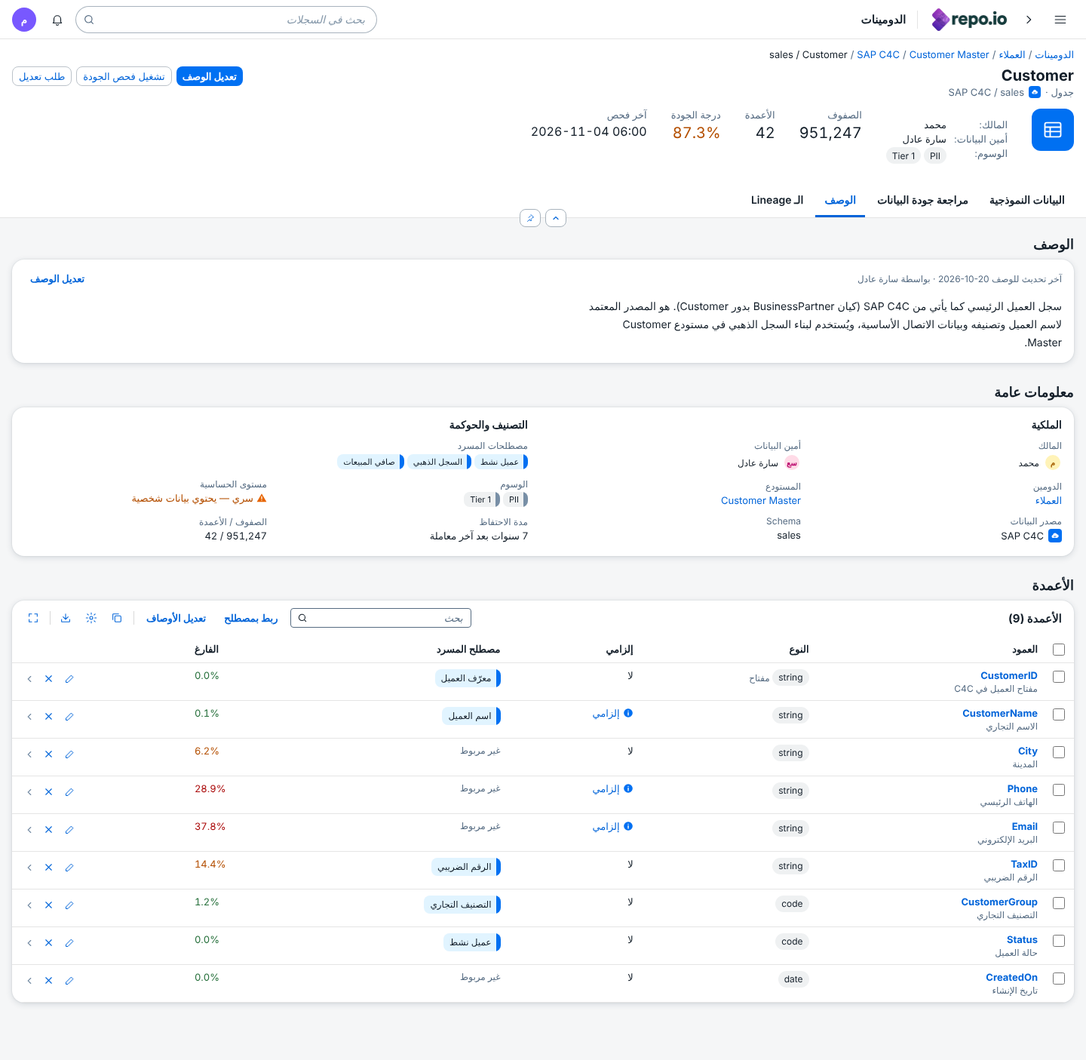
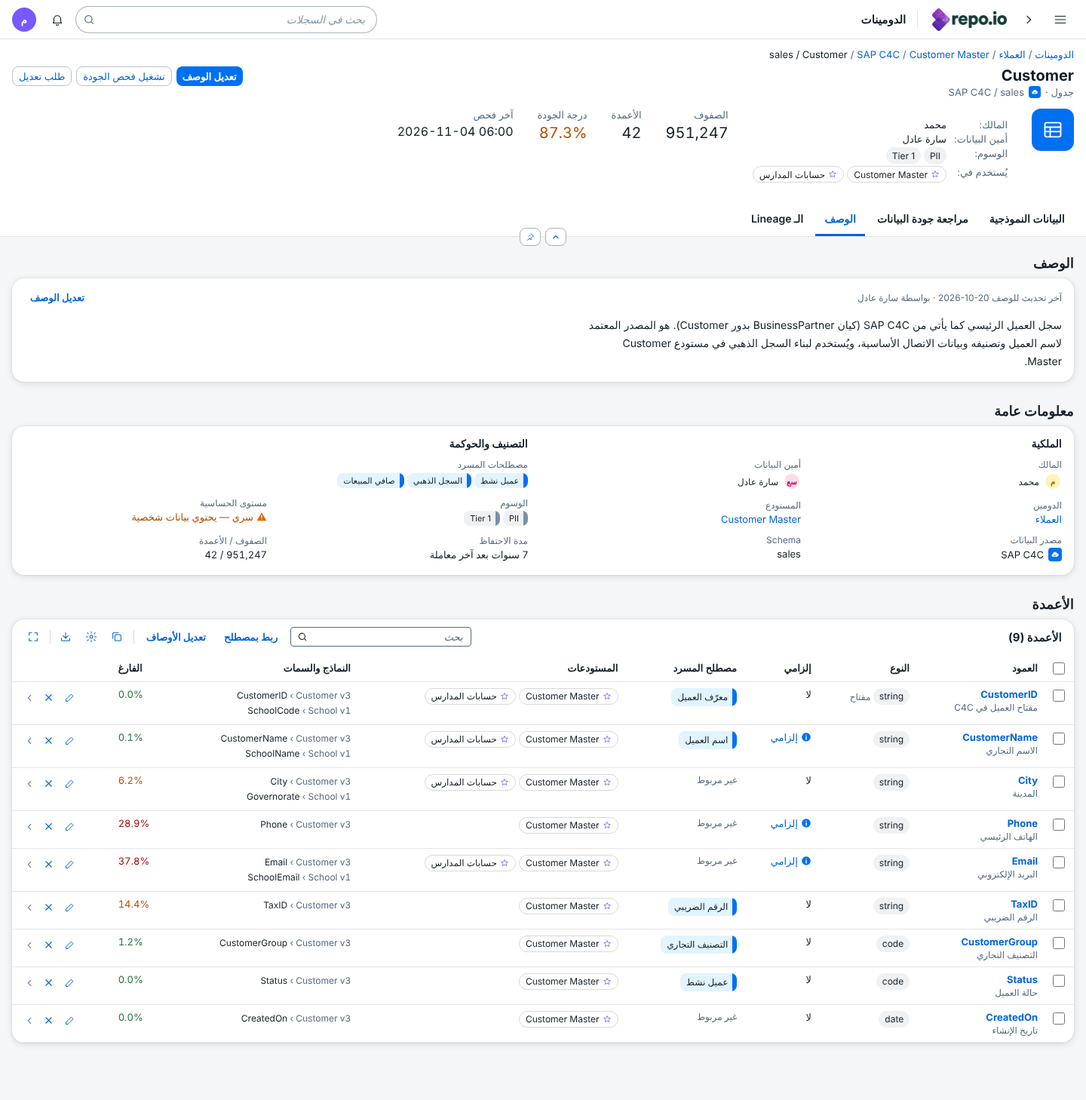
design: show repository and model participation for sources, tables, and fields
Data source page gets a participating-repositories section and a 'used in'
column per table; table page lists the repositories that use it, and each
field shows the repositories and model attributes it maps to.

Claude-Session: https://claude.ai/code/session_014MwTwj4qVcnTAy3XtzTwBt

diff --git a/repoio-ui/design-reference/prototypes/02-domains.html b/repoio-ui/design-reference/prototypes/02-domains.html
@@ -306,6 +306,9 @@ table.rt tbody tr.sel td:first-child{box-shadow:inset -4px 0 0 var(--brand-stron
 .anchors{display:flex;gap:2px;overflow-x:auto;margin-top:-6px}
 .anchors .tab{height:40px;font-size:13px}
 .op-sec{margin-bottom:28px;scroll-margin-top:68px}
+.lnk{border:0;background:none;padding:0;font:inherit;color:var(--link,#0064D9);cursor:pointer}.lnk:hover{text-decoration:underline}
+.rchips{display:inline-flex;flex-wrap:wrap;gap:4px}.rchip{display:inline-flex;align-items:center;gap:4px;height:22px;padding:0 8px;border:1px solid #D9D9D9;border-radius:11px;background:#fff;font:inherit;font-size:12px;color:#131E29;cursor:pointer;white-space:nowrap}.rchip svg{color:#7858FF}.rchip:hover{background:#EAECEE}.rchip:focus-visible{outline:2px solid #0032A5;outline-offset:1px}
+.mattr{display:block;font-size:12px;line-height:20px;white-space:nowrap}.mattr .m{color:#556B82}
 .op-sec>h2{font-size:18px;font-weight:700;margin:0 0 10px}
 .gi2{display:grid;grid-template-columns:repeat(2,minmax(0,1fr));gap:12px 40px;padding:14px 16px 18px}
 .gi2 .grp{display:grid;grid-template-columns:repeat(2,minmax(0,1fr));gap:12px 24px;align-content:start}
@@ -452,7 +455,7 @@ const D = {
   repos: {
     'customer-master':{owners:['محمد','سارة عادل','أحمد ناصر'],tags:['PII','Tier 1','C4C'],code:'CUSTOMER_MASTER',deployed:'2026-10-02 10:19',cap:1500000,storage:[42.6,100],pipes:4,name:'Customer Master',flow:['pos','pos','crit','pos'],status:'Deployed',model:'Customer v3',golden:951247,quality:87.3,sources:['c4c','s4','csv']},
     'distribution':{owners:['هالة سمير'],tags:['Tier 2','شركاء'],code:'DISTRIBUTION_PARTNERS',deployed:'2026-09-21 10:23',cap:5000,storage:[1.2,10],pipes:1,name:'شركاء التوزيع',flow:['pos','pos','pos','pos'],status:'Deployed',model:'Partner v1',golden:1840,quality:91.2,sources:['s4']},
-    'schools':{owners:['سارة عادل','منى حسن'],tags:['مسودة','تعليم'],code:'SCHOOL_ACCOUNTS',deployed:'—',cap:20000,storage:[0.3,10],pipes:1,name:'حسابات المدارس',flow:['pos','crit','neutral','neutral'],status:'Draft',model:'School v1',golden:0,quality:72.5,sources:['csv']},
+    'schools':{owners:['سارة عادل','منى حسن'],tags:['مسودة','تعليم'],code:'SCHOOL_ACCOUNTS',deployed:'—',cap:20000,storage:[0.3,10],pipes:1,name:'حسابات المدارس',flow:['pos','crit','neutral','neutral'],status:'Draft',model:'School v1',golden:0,quality:72.5,sources:['csv','c4c']},
     'catalog':{owners:['كريم فوزي','نور الدين'],tags:['Tier 1','ISBN'],code:'BOOK_CATALOG',deployed:'2026-08-11 10:14',cap:100000,storage:[6.8,50],pipes:2,name:'كتالوج الكتب',flow:['pos','pos','pos','pos'],status:'Deployed',model:'Book v2',golden:38500,quality:96.2,sources:['s4','csv']},
     'digital':{owners:['كريم فوزي'],tags:['رقمي'],code:'DIGITAL_PRODUCTS',deployed:'—',cap:20000,storage:[0.1,10],pipes:1,name:'المنتجات الرقمية',flow:['pos','neutral','neutral','neutral'],status:'Draft',model:'Digital v1',golden:0,quality:68.0,sources:['csv']},
     'vendor-master':{owners:['هالة سمير','عمر طارق'],tags:['Tier 1','مشتريات'],code:'VENDOR_MASTER',deployed:'2026-07-30 10:16',cap:2000,storage:[0.9,10],pipes:1,name:'Vendor Master',flow:['pos','pos','pos','crit'],status:'Deployed',model:'Vendor v2',golden:612,quality:89.4,sources:['s4']},
@@ -468,9 +471,9 @@ const D = {
         {id:'territory',name:'Territory',rows:212,cols:11,q:94.8,prof:'2026-11-04 06:00'}]}},
     s4:{auth:'Basic (RFC user)',sched:'يومياً 01:30',owner:'كريم فوزي',name:'SAP S/4HANA',type:'SAP S/4HANA (CDS views)',host:'s4prd.nahdetmisr.local',sync:'2026-11-04 01:30',state:'crit',stateL:'مزامنة جزئية',schemas:{
       'sd':[{id:'kna1',name:'KNA1 — Customer General',rows:948120,cols:86,q:83.9,prof:'2026-11-04 05:00'},{id:'knvv',name:'KNVV — Sales Data',rows:1102340,cols:64,q:88.2,prof:'2026-11-04 05:00'}],
-      'mm':[{id:'mara',name:'MARA — Material',rows:41230,cols:120,q:92.7,prof:'2026-11-04 05:00'}]}},
+      'mm':[{id:'mara',name:'MARA — Material',rows:41230,cols:120,q:92.7,prof:'2026-11-04 05:00'},{id:'lfa1',name:'LFA1 — Vendor Master',rows:2140,cols:72,q:89.1,prof:'2026-11-04 05:00'}]}},
     csv:{auth:'—',sched:'يدوي',owner:'سارة عادل',name:'رفع ملفات CSV',type:'Excel / CSV upload',host:'—',sync:'2026-11-02 14:12',state:'neutral',stateL:'يدوي',schemas:{
-      'uploads':[{id:'school_list',name:'school_list_2026.csv',rows:3820,cols:14,q:72.5,prof:'2026-11-02 14:15'}]}}},
+      'uploads':[{id:'school_list',name:'school_list_2026.csv',rows:3820,cols:14,q:72.5,prof:'2026-11-02 14:15'},{id:'new_customers',name:'new_customers_q3.csv',rows:1260,cols:12,q:76.8,prof:'2026-10-15 11:02'},{id:'book_list',name:'book_list_2026.csv',rows:6420,cols:18,q:90.3,prof:'2026-10-30 09:40'},{id:'digital_skus',name:'digital_skus.csv',rows:410,cols:9,q:68.0,prof:'2026-10-12 16:20'},{id:'authors_csv',name:'authors_archive.csv',rows:4210,cols:11,q:81.0,prof:'2025-12-01 10:21'}]}}},
   models:{
     'Customer v3':{entity:'Customer',ver:'3.2',status:'pos',statusL:'معتمد',approved:'2026-09-28',approver:'محمد',owner:'محمد',
       match:'Splink — احتمال ≥ 0.90 دمج تلقائي، 0.75–0.90 مراجعة يدوية',block:'المدينة + أول 3 أحرف من الاسم',surv:'الأحدث من المصدر الأعلى أولوية',
@@ -480,8 +483,8 @@ const D = {
         ['CustomerGroup','code',0,'—','c4c,s4','أولوية المصدر'],['Status','code',1,'—','c4c','أولوية المصدر'],['CreatedOn','date',0,'—','c4c,s4','الأقدم']]},
     'Partner v1':{entity:'Partner',ver:'1.4',status:'pos',statusL:'معتمد',approved:'2026-09-15',approver:'هالة سمير',owner:'هالة سمير',match:'مطابقة تامة على الرقم الضريبي',block:'الرقم الضريبي',surv:'أولوية المصدر',priority:['s4'],
       attrs:[['PartnerID','string',1,'مفتاح','s4','—'],['PartnerName','string',1,'مطابقة تقريبية','s4','أولوية المصدر'],['TaxID','string',1,'مطابقة تامة','s4','—'],['Region','code',0,'—','s4','أولوية المصدر']]},
-    'School v1':{entity:'School',ver:'0.9',status:'info',statusL:'مسودة',approved:'—',approver:'—',owner:'سارة عادل',match:'لم تُحدد بعد',block:'—',surv:'—',priority:['csv'],
-      attrs:[['SchoolCode','string',1,'مفتاح','csv','—'],['SchoolName','string',1,'مطابقة تقريبية','csv','—'],['Governorate','code',1,'Blocking','csv','—']]},
+    'School v1':{entity:'School',ver:'0.9',status:'info',statusL:'مسودة',approved:'—',approver:'—',owner:'سارة عادل',match:'لم تُحدد بعد',block:'—',surv:'—',priority:['csv','c4c'],
+      attrs:[['SchoolCode','string',1,'مفتاح','csv,c4c','—'],['SchoolName','string',1,'مطابقة تقريبية','csv,c4c','—'],['Governorate','code',1,'Blocking','csv,c4c','—'],['SchoolEmail','string',0,'—','c4c','—']]},
     'Book v2':{entity:'Book',ver:'2.1',status:'pos',statusL:'معتمد',approved:'2026-08-01',approver:'كريم فوزي',owner:'كريم فوزي',match:'مطابقة تامة على ISBN، ثم تقريبية على العنوان',block:'ISBN',surv:'أولوية المصدر',priority:['s4','csv'],
       attrs:[['ISBN','string',1,'مطابقة تامة','s4,csv','—'],['Title','string',1,'مطابقة تقريبية','s4,csv','الأعلى جودة'],['Author','string',1,'مطابقة تقريبية','csv','الأحدث'],['Grade','code',0,'—','s4','أولوية المصدر'],['Price','decimal',0,'—','s4','الأحدث']]},
     'Digital v1':{entity:'DigitalProduct',ver:'0.3',status:'info',statusL:'مسودة',approved:'—',approver:'—',owner:'كريم فوزي',match:'لم تُحدد بعد',block:'—',surv:'—',priority:['csv'],
@@ -490,6 +493,14 @@ const D = {
       attrs:[['VendorID','string',1,'مفتاح','s4','—'],['VendorName','string',1,'مطابقة تقريبية','s4','أولوية المصدر'],['TaxID','string',1,'مطابقة تامة','s4','—'],['BankCountry','code',0,'—','s4','أولوية المصدر']]},
     'Author v1':{entity:'Author',ver:'1.0',status:'neutral',statusL:'مؤرشف',approved:'2025-11-20',approver:'سارة عادل',owner:'سارة عادل',match:'مطابقة تقريبية على الاسم',block:'أول حرفين',surv:'الأحدث',priority:['csv'],
       attrs:[['AuthorID','string',1,'مفتاح','csv','—'],['AuthorName','string',1,'مطابقة تقريبية','csv','الأحدث'],['Nationality','code',0,'—','csv','الأحدث']]}},
+  /* which source tables each repository uses: repo → {source: [table ids]} */
+  usage:{'customer-master':{c4c:['customer','customer_address','contact_person','sales_area'],s4:['kna1','knvv'],csv:['new_customers']},
+    'distribution':{s4:['kna1','knvv']},'schools':{csv:['school_list'],c4c:['customer','customer_address']},
+    'catalog':{s4:['mara'],csv:['book_list']},'digital':{csv:['digital_skus']},'vendor-master':{s4:['lfa1']},'authors':{csv:['authors_csv']}},
+  /* field → [repo, model attribute] for C4C sales.Customer */
+  fieldMap:{CustomerID:[['customer-master','CustomerID'],['schools','SchoolCode']],CustomerName:[['customer-master','CustomerName'],['schools','SchoolName']],
+    TaxID:[['customer-master','TaxID']],Email:[['customer-master','Email'],['schools','SchoolEmail']],Phone:[['customer-master','Phone']],
+    City:[['customer-master','City'],['schools','Governorate']],CustomerGroup:[['customer-master','CustomerGroup']],Status:[['customer-master','Status']],CreatedOn:[['customer-master','CreatedOn']]},
   /* golden records the repository contributes to: [id, name, sub, sources, sourceRecords, matchProb, quality, lastMerge, state] */
   golden:{
     'customer-master':[['GR-C-000184','مكتبة الشروق','القاهرة · مكتبات',['c4c','s4','csv'],4,0.98,96.4,'2026-11-04 02:06','pos'],
@@ -740,6 +751,11 @@ function viewDomain(id){
 
 /* ───────────── Level 2: Repository (Object Page · anchor bar: Model / Golden records / Data sources) ───────────── */
 let repoTab='rp-model', gq='', gFilter='all';
+function reposOfSource(sid){return Object.keys(D.repos).filter(r=>D.repos[r].sources.includes(sid));}
+function reposOfTable(sid,tid){return Object.keys(D.repos).filter(r=>(D.usage[r]?.[sid]||[]).includes(tid));}
+function domOfRepo(r){return D.domains.find(d=>d.repos.includes(r));}
+const repoLink=r=>`<button class="lnk" data-go="xrepo:${r}">${esc(D.repos[r].name)}</button>`;
+const repoChips=list=>list.length?`<span class="rchips">${list.map(r=>`<button class="rchip" data-go="xrepo:${r}" title="${esc(D.repos[r].model)}">${svg('gold',12)}${esc(D.repos[r].name)}</button>`).join('')}</span>`:'<span class="sub">غير مستخدم</span>';
 const GST={pos:'معتمد',crit:'قيد المراجعة',neg:'تعارض',neutral:'مؤرشف'};
 function viewRepo(id){
   const R=D.repos[id], M=D.models[R.model], G=(D.golden[id]||[]), [hs,hl]=repoHealth(R), qs=qState(R.quality);
@@ -819,12 +835,13 @@ function viewSources(id){
   const S=D.sources[sid],k=srcStats(S),qs=qState(k.q);
   const tbls=Object.entries(S.schemas).flatMap(([g,list])=>list.map(t=>({...t,schema:g}))).filter(t=>!srcQ||t.name.toLowerCase().includes(srcQ.toLowerCase())||t.schema.includes(srcQ));
   const allSel=tbls.length&&tbls.every(t=>selTables.has(t.id));
-  const anchors=[['sec-general','معلومات عامة'],['sec-tables','Schemas و Tables'],['sec-sync','سجل المزامنة']];
+  const anchors=[['sec-general','معلومات عامة'],['sec-repos','المستودعات المشاركة'],['sec-tables','Schemas و Tables'],['sec-sync','سجل المزامنة']];
+  const srcRepos=reposOfSource(sid);
   return tabs+`<section class="ph ${headerCollapsed?'collapsed':''}"><div class="ph-in">${crumbs()}
     <div class="oh-top"><div><h1 class="oh-title" tabindex="-1">${esc(S.name)}</h1></div>
       <div class="oh-actions"><button class="b b-emph">تعديل</button><button class="b b-std">حذف</button><button class="b b-std">مزامنة الآن</button><button class="rt-ic" aria-label="مشاركة">${SHARE_IC}</button></div></div>
     <div class="oh-body">${srcIcon(sid,56)}
-      <dl class="oh-attrs"><dt>الموصّل:</dt><dd>${esc(S.type)} <span class="chip">${SRC_IC[sid].tag}</span></dd><dt>العنوان:</dt><dd>${ltr(esc(S.host))}</dd><dt>المستودع:</dt><dd><a href="#" onclick="return false">${esc(R.name)}</a></dd></dl>
+      <dl class="oh-attrs"><dt>الموصّل:</dt><dd>${esc(S.type)} <span class="chip">${SRC_IC[sid].tag}</span></dd><dt>العنوان:</dt><dd>${ltr(esc(S.host))}</dd><dt>يشارك في:</dt><dd>${reposOfSource(sid).length} مستودعات</dd></dl>
       <div class="facet"><div class="fl">الحالة</div><div class="fv lg st ${S.state}">${esc(S.stateL)}</div></div>
       <div class="facet"><div class="fl">آخر مزامنة</div><div class="fv lg">${ltr(S.sync.slice(11))}</div></div>
       <div class="facet"><div class="fl">Tables</div><div class="fv lg">${k.tbl}</div></div>
@@ -836,16 +853,25 @@ function viewSources(id){
     <section class="op-sec" id="sec-general"><h2>معلومات عامة</h2><div class="section" style="margin:0"><div class="gi2">
       <div class="grp"><h3>تفاصيل الاتصال</h3><div class="f"><div class="fl">معرّف المصدر</div><div class="fv">${ltr(sid.toUpperCase()+'-0001')}</div></div><div class="f"><div class="fl">جدول المزامنة</div><div class="fv">${esc(S.sched)}</div></div>
         <div class="f"><div class="fl">المصادقة</div><div class="fv">${esc(S.auth)}</div></div><div class="f"><div class="fl">آخر مزامنة</div><div class="fv">${ltr(S.sync)}</div></div></div>
-      <div class="grp"><h3>تفاصيل الإعداد</h3><div class="f"><div class="fl">المستودع</div><div class="fv"><a href="#" onclick="return false">${esc(R.name)}</a></div></div><div class="f"><div class="fl">نموذج البيانات</div><div class="fv">${R.model}</div></div>
+      <div class="grp"><h3>تفاصيل الإعداد</h3><div class="f" style="grid-column:1/-1"><div class="fl">المستودعات المشاركة</div><div class="fv">${repoChips(srcRepos)}</div></div>
         <div class="f"><div class="fl">المالك</div><div class="fv">${esc(S.owner)}</div></div><div class="f"><div class="fl">Schemas</div><div class="fv">${k.sch}</div></div><div class="f"><div class="fl">العنوان</div><div class="fv">${ltr(esc(S.host))}</div></div></div></div></div></section>
+    <section class="op-sec" id="sec-repos"><h2>المستودعات المشاركة</h2><div class="section" style="margin:0">
+      <div class="rt-bar"><h3 class="rt-title">المستودعات <span class="num">(${srcRepos.length})</span></h3><span class="sub">كل مستودع يستخدم هذا المصدر كمدخل لنموذجه</span>${RT_ICONS}</div>
+      <div class="twrap"><table class="rt"><thead><tr><th class="chk"><input type="checkbox" class="cb" aria-label="تحديد الكل"></th><th>المستودع</th><th>الدومين</th><th>النموذج</th><th class="end">أولوية المصدر</th><th>الجداول المستخدمة</th><th class="end">سمات مربوطة</th><th>الحالة</th><th></th></tr></thead><tbody>
+      ${srcRepos.map(r=>{const RR=D.repos[r],M=D.models[RR.model],[hs,hl]=repoHealth(RR),used=(D.usage[r]?.[sid]||[]),pr=M.priority.indexOf(sid)+1,attrs=M.attrs.filter(a=>a[4].split(',').includes(sid)).length,dm=domOfRepo(r);
+        return rtRow({id:r,sel:false,selAttr:'data-xrs',go:`xrepo:${r}`,title:esc(RR.name),desc:ltr(RR.code),
+          cells:[`<td>${dm?esc(dm.name):'—'}</td>`,`<td><span class="chipx" style="position:static">${esc(RR.model)}</span></td>`,`<td class="end num">${pr?pr+' <span class="sub">من '+M.priority.length+'</span>':'—'}</td>`,
+            `<td>${used.length?used.map(t=>{const sc=Object.keys(S.schemas).find(g=>S.schemas[g].some(x=>x.id===t));return `<span class="chip" style="margin:0 0 2px 4px">${esc(S.schemas[sc].find(x=>x.id===t).name)}</span>`;}).join(''):'—'}</td>`,
+            `<td class="end num">${attrs} <span class="sub">من ${M.attrs.length}</span></td>`,`<td>${st(hs,hl)}</td>`]});}).join('')}
+      </tbody></table></div></div></section>
     <section class="op-sec" id="sec-tables"><h2>Schemas و Tables</h2><div class="section" style="margin:0">
       <div class="rt-bar"><h3 class="rt-title">Tables <span class="num">(${tbls.length})</span></h3>
         <label class="tsearch" style="width:300px"><input id="srcq" value="${esc(srcQ)}" placeholder="بحث" aria-label="بحث عن جدول">${SEARCH_IC}</label>
         <button class="b b-trans">إضافة</button><button class="b b-trans" ${selTables.size?'':'disabled'}>حذف${selTables.size?` (${selTables.size})`:''}</button>${RT_ICONS}</div>
-      <div class="twrap"><table class="rt"><thead><tr><th class="chk"><input type="checkbox" class="cb" data-tselall="1" ${allSel?'checked':''} aria-label="تحديد الكل"></th><th>الجدول</th><th>Schema</th><th class="end">الصفوف</th><th class="end">الأعمدة</th><th class="end">الجودة</th><th></th></tr></thead><tbody>
+      <div class="twrap"><table class="rt"><thead><tr><th class="chk"><input type="checkbox" class="cb" data-tselall="1" ${allSel?'checked':''} aria-label="تحديد الكل"></th><th>الجدول</th><th>Schema</th><th>يُستخدم في</th><th class="end">الصفوف</th><th class="end">الأعمدة</th><th class="end">الجودة</th><th>آخر فحص</th><th></th></tr></thead><tbody>
       ${tbls.length?tbls.map(t=>{const tq=qState(t.q);return rtRow({id:t.id,sel:selTables.has(t.id),selAttr:'data-tsel',go:`table:${sid}:${t.schema}:${t.id}`,title:esc(t.name),desc:'Schema: '+esc(t.schema),
-        pop:[['الحالة',`<span class="st ${tq}">${tq==='pos'?'ضمن الهدف':tq==='crit'?'دون الهدف':'حرج'}</span>`],['آخر فحص',ltr(t.prof)]],
-        cells:[`<td>${esc(t.schema)}</td>`,`<td class="end">${fmt(t.rows)}</td>`,`<td class="end">${t.cols}</td>`,`<td class="end"><span class="st ${tq} num">${ltr(t.q.toFixed(1)+'%')}</span></td>`]});}).join(''):`<tr><td colspan="7" class="empty">لا توجد جداول مطابقة لـ "${esc(srcQ)}"</td></tr>`}
+
+        cells:[`<td>${esc(t.schema)}</td>`,`<td>${repoChips(reposOfTable(sid,t.id))}</td>`,`<td class="end">${fmt(t.rows)}</td>`,`<td class="end">${t.cols}</td>`,`<td class="end"><span class="st ${tq} num">${ltr(t.q.toFixed(1)+'%')}</span></td>`,`<td class="num">${ltr(t.prof)}</td>`]});}).join(''):`<tr><td colspan="9" class="empty">لا توجد جداول مطابقة لـ "${esc(srcQ)}"</td></tr>`}
       </tbody></table></div></div></section>
     <section class="op-sec" id="sec-sync"><h2>سجل المزامنة</h2><div class="section" style="margin:0">
       <div class="rt-bar"><h3 class="rt-title">التشغيلات <span class="num">(${D.runs.length})</span></h3><button class="b b-trans">مزامنة الآن</button>${RT_ICONS}</div>
@@ -862,7 +888,7 @@ function viewTable(src,schema,id){
     <div class="oh-top"><div><h1 class="oh-title" tabindex="-1">${esc(T.name)}</h1><div class="oh-sub" style="display:flex;align-items:center;gap:6px">جدول · ${srcIcon(src,16)} ${esc(S.name)} / ${esc(schema)}</div></div>
       <div class="oh-actions"><button class="b b-emph">تعديل الوصف</button><button class="b b-std">تشغيل فحص الجودة</button><button class="b b-std">طلب تعديل</button></div></div>
     <div class="oh-body"><div class="oh-img" style="background:#0070F2">${svg('table',28)}</div>
-      <dl class="oh-attrs"><dt>المالك:</dt><dd>${esc(X.owner)}</dd><dt>أمين البيانات:</dt><dd>${esc(X.steward)}</dd><dt>الوسوم:</dt><dd>${X.tags.map(t=>`<span class="chip">${t}</span>`).join(' ')}</dd></dl>
+      <dl class="oh-attrs"><dt>المالك:</dt><dd>${esc(X.owner)}</dd><dt>أمين البيانات:</dt><dd>${esc(X.steward)}</dd><dt>الوسوم:</dt><dd>${X.tags.map(t=>`<span class="chip">${t}</span>`).join(' ')}</dd><dt>يُستخدم في:</dt><dd>${repoChips(reposOfTable(src,id))}</dd></dl>
       <div class="facet"><div class="fl">الصفوف</div><div class="fv">${fmt(T.rows)}</div></div>
       <div class="facet"><div class="fl">الأعمدة</div><div class="fv">${T.cols}</div></div>
       <div class="facet"><div class="fl">درجة الجودة</div><div class="fv st ${qState(T.q)}" style="font-size:20px">${T.q.toFixed(1)}%</div></div>
@@ -972,10 +998,10 @@ function tabDesc(){const X=D.table, T=findTable(path[path.length-1].src,path[pat
     <div class="rt-bar"><h3 class="rt-title">الأعمدة <span class="num">(${X.columns.length})</span></h3>
       <label class="tsearch" style="width:240px"><input placeholder="بحث" aria-label="بحث في الأعمدة">${SEARCH_IC}</label>
       <button class="b b-trans">ربط بمصطلح</button><button class="b b-trans">تعديل الأوصاف</button>${RT_ICONS}</div>
-    <div class="twrap"><table class="rt"><thead><tr><th class="chk"><input type="checkbox" class="cb" aria-label="تحديد الكل"></th><th>العمود</th><th>النوع</th><th>إلزامي</th><th>مصطلح المسرد</th><th class="end">الفارغ</th><th></th></tr></thead><tbody>
-    ${X.columns.map(c=>{const s2=c[4]>20?'neg':c[4]>5?'crit':'pos';const term=X.colTerms[c[0]];return rtRow({id:c[0],sel:false,selAttr:'data-colsel',title:c[0],desc:esc(c[2]),
+    <div class="twrap"><table class="rt"><thead><tr><th class="chk"><input type="checkbox" class="cb" aria-label="تحديد الكل"></th><th>العمود</th><th>النوع</th><th>إلزامي</th><th>مصطلح المسرد</th><th>المستودعات</th><th>النماذج والسمات</th><th class="end">الفارغ</th><th></th></tr></thead><tbody>
+    ${X.columns.map(c=>{const s2=c[4]>20?'neg':c[4]>5?'crit':'pos';const term=X.colTerms[c[0]],L=path[path.length-1],isC=L.id==='customer'&&L.src==='c4c',fm=isC?(D.fieldMap[c[0]]||[]):[];return rtRow({id:c[0],sel:false,selAttr:'data-colsel',title:c[0],desc:esc(c[2]),
       pop0:[['إلزامي',c[3]?st('info','إلزامي'):'لا'],['مفتاح',c[0]==='CustomerID'?'مفتاح أساسي':'—']],
-      cells:[`<td><span class="chip">${c[1]}</span>${c[0]==='CustomerID'?' <span class="sub">مفتاح</span>':''}</td>`,`<td>${c[3]?st('info','إلزامي'):'لا'}</td>`,`<td>${term?`<span class="gtag info">${esc(term)}</span>`:'<span class="sub">غير مربوط</span>'}</td>`,`<td class="end"><span class="st ${s2} num">${ltr(c[4].toFixed(1)+'%')}</span></td>`]});}).join('')}
+      cells:[`<td><span class="chip">${c[1]}</span>${c[0]==='CustomerID'?' <span class="sub">مفتاح</span>':''}</td>`,`<td>${c[3]?st('info','إلزامي'):'لا'}</td>`,`<td>${term?`<span class="gtag info">${esc(term)}</span>`:'<span class="sub">غير مربوط</span>'}</td>`,`<td>${repoChips(isC?fm.map(m=>m[0]):reposOfTable(L.src,L.id))}</td>`,`<td>${fm.length?fm.map(([r,a])=>`<span class="mattr"><span class="m">${esc(D.repos[r].model)} ›</span> ${ltr(a)}</span>`).join(''):'—'}</td>`,`<td class="end"><span class="st ${s2} num">${ltr(c[4].toFixed(1)+'%')}</span></td>`]});}).join('')}
     </tbody></table></div></div></section>`;}
 
 function tabLineage(){const L=D.table.lineage;
@@ -1003,6 +1029,7 @@ function activate(el){
   const g=el.dataset.go;
   if(g){const [k,a,b,c]=g.split(':');
     if(k==='domain'){spQ='';selRepos.clear();go([{k,id:a}]);}
+    else if(k==='xrepo'){const dm=domOfRepo(a);repoTab='rp-model';gq='';gFilter='all';go([{k:'domain',id:dm.id},{k:'repo',id:a}]);}
     else if(k==='repo'){repoTab='rp-model';gq='';gFilter='all';go([...path,{k,id:a}]);}
     else if(k==='srcs'){const repo=path[path.length-1].id;if(!openSrc[repo])openSrc[repo]=[...D.repos[repo].sources];if(!openSrc[repo].includes(a))openSrc[repo].push(a);activeSrc[repo]=a;srcTab='sec-general';selTables.clear();srcQ='';closedSchemas.clear();go([...path,{k,id:repo}]);}
     else if(k==='table'){testFilter='all';go([...path,{k,src:a,schema:b,id:c}]);}return;}
